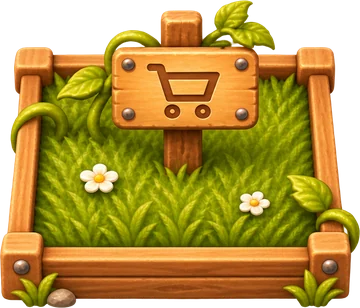
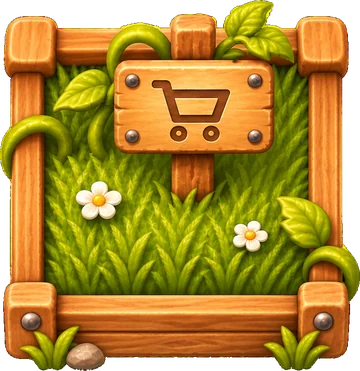
Nouveau fond de jardin, bacs vus de dessus, papillon et escargot (0.10.2)
Les petites icônes (goutte, pièce) reviennent au dessin simple.

Claude-Session: https://claude.ai/code/session_018D5HKJWKwN88xpAGuhHMQJ

diff --git a/css/style.css b/css/style.css
@@ -89,7 +89,7 @@ svg { display: block; }
 .brand svg { width: 26px; height: 26px; }
 @media (max-width: 460px) { .brand span { display: none; } }
 .pill { display: inline-flex; align-items: center; gap: 6px; background: var(--panel); border: 1px solid var(--line); border-radius: 999px; padding: 4px 12px 4px 6px; font-weight: 800; font-variant-numeric: tabular-nums; }
-.coin { display: inline-block; width: 1.25em; height: 1.25em; background: url("../assets/img/ui-coin.webp") center / contain no-repeat; vertical-align: -0.15em; flex: none; }
+.coin { display: inline-block; width: 1.05em; height: 1.05em; border-radius: 50%; background: radial-gradient(circle at 35% 35%, #ffe58a, #f4c03e 55%, #d99a1e); box-shadow: inset 0 0 0 1.5px #c98a16; vertical-align: -0.15em; flex: none; }
 .lvl { display: grid; gap: 3px; flex: 1; min-width: 0; }
 .lvl-top { display: flex; justify-content: space-between; gap: 6px; font-size: .75rem; color: var(--muted); font-weight: 700; white-space: nowrap; }
 .lvl-top b { color: var(--ink); font-family: var(--f-display); font-weight: 600; font-size: .9rem; }
@@ -129,23 +129,23 @@ main { display: grid; gap: 12px; padding-top: 4px; }
 .install p { margin: 0; flex: 1; font-size: .85rem; font-weight: 700; }
 
 /* Jardin : pelouse illustrée et bacs en bois */
-.garden { position: relative; border-radius: 22px; padding: 14px 10px 18px; overflow: hidden; border: 1px solid rgba(60,120,30,.25);
+.garden { position: relative; border-radius: 22px; padding: 14px 12px 18px; overflow: hidden; border: 1px solid rgba(60,120,30,.25);
   background: #8fcf52 url("../assets/img/bg-garden.webp") center / cover; }
-.plots { display: grid; grid-template-columns: repeat(3, minmax(0,1fr)); gap: 4px 8px; padding-top: 14%; }
+.plots { display: grid; grid-template-columns: repeat(3, minmax(0,1fr)); gap: 12px 10px; padding-top: 8%; }
 @media (min-width: 620px) { .plots { grid-template-columns: repeat(4, minmax(0,1fr)); } }
 /* Le bac occupe le bas de la case ; la plante dépasse au-dessus. */
-.plot { position: relative; aspect-ratio: 1 / .95; max-width: 100%; padding: 0; border: 0; background: url("../assets/img/plot-wet.webp") center bottom / 100% auto no-repeat; overflow: visible; }
+.plot { position: relative; aspect-ratio: 360 / 372; max-width: 100%; padding: 0; border: 0; background: url("../assets/img/plot-wet.webp") center / 100% 100% no-repeat; overflow: visible; }
 .plot.dry, .plot.empty { background-image: url("../assets/img/plot-dry.webp"); }
 .plot:active { transform: scale(.97); }
-.plot svg.art { position: absolute; left: 9%; width: 82%; height: 86%; bottom: 16%; top: auto; }
+.plot svg.art { position: absolute; left: 7%; width: 86%; height: 84%; bottom: 20%; top: auto; }
 .plot.empty { display: grid; place-items: center; color: #fff; font-weight: 800; font-size: .8rem; text-shadow: 0 1px 2px rgba(60,30,10,.7); }
-.plot.empty span { display: grid; justify-items: center; gap: 0; padding-top: 34%; }
+.plot.empty span { display: grid; justify-items: center; gap: 0; padding-bottom: 12%; }
 .plot.empty b { font-family: var(--f-display); font-size: 1.5rem; line-height: 1; }
 .plot.locked { background-image: url("../assets/img/plot-locked.webp"); display: grid; align-items: end; justify-items: center; }
-.plot.locked .price { margin-bottom: -6px; background: var(--panel); color: var(--ink); border-radius: 99px; padding: 2px 9px 2px 5px; font-size: .78rem; font-weight: 800; display: inline-flex; gap: 4px; align-items: center; box-shadow: 0 1px 3px rgba(0,0,0,.25); }
+.plot.locked .price { margin-bottom: 2%; background: var(--panel); color: var(--ink); border-radius: 99px; padding: 2px 9px 2px 5px; font-size: .78rem; font-weight: 800; display: inline-flex; gap: 4px; align-items: center; box-shadow: 0 1px 3px rgba(0,0,0,.25); }
 .plot .tag { position: absolute; top: 2px; right: 2px; z-index: 2; width: 24px; height: 24px; border-radius: 50%; display: grid; place-items: center; background: var(--panel); box-shadow: 0 1px 2px rgba(0,0,0,.2); }
 .plot .tag svg { width: 16px; height: 16px; }
-.plot .gbar { position: absolute; left: 16%; right: 16%; bottom: 3%; z-index: 2; height: 6px; border-radius: 99px; background: rgba(0,0,0,.25); overflow: hidden; }
+.plot .gbar { position: absolute; left: 20%; right: 20%; bottom: 7%; z-index: 2; height: 6px; border-radius: 99px; background: rgba(0,0,0,.25); overflow: hidden; }
 .plot .gbar i { display: block; height: 100%; background: #7fe04f; border-radius: 99px; }
 .plot.dry .gbar i { background: #ffd27a; }
 .plot .gt { position: absolute; left: 2px; top: 2px; z-index: 2; font-size: .7rem; font-weight: 800; color: #fff; background: rgba(0,0,0,.28); padding: 1px 6px; border-radius: 99px; font-variant-numeric: tabular-nums; }
@@ -367,7 +367,6 @@ textarea { width: 100%; min-height: 70px; border-radius: 12px; border: 1px solid
 .cauldron { width: 64px; height: 64px; object-fit: contain; }
 .cauldron.bubbling { animation: bob 1.6s ease-in-out infinite; }
 .banner-img { width: 120px; height: 120px; object-fit: contain; }
-.plot .tag img { width: 20px; height: 20px; object-fit: contain; }
 .pest { position: absolute; z-index: 1; object-fit: contain; pointer-events: none; }
 .pest.weed { width: 46%; left: 4%; bottom: 14%; }
 .pest.snail { width: 40%; right: 2%; bottom: 10%; }

diff --git a/index.html b/index.html
@@ -6,12 +6,12 @@
   <title>potager-idle</title>
   <meta name="description" content="Un petit jeu idle de potager : plante, arrose, récolte, cuisine et découvre des variétés hybrides.">
   <meta name="theme-color" content="#f2f9e6" id="theme-color">
-  <link rel="manifest" href="manifest.webmanifest?v=22">
+  <link rel="manifest" href="manifest.webmanifest?v=23">
   <link rel="icon" href="icons/icon-64.png" sizes="64x64" type="image/png">
   <link rel="icon" href="icons/icon-192.png" sizes="192x192" type="image/png">
   <link rel="preload" href="fonts/nunito-latin.woff2" as="font" type="font/woff2" crossorigin>
   <link rel="preload" href="fonts/fredoka-latin.woff2" as="font" type="font/woff2" crossorigin>
-  <link rel="stylesheet" href="css/style.css?v=22">
+  <link rel="stylesheet" href="css/style.css?v=23">
 </head>
 <body>
 <div id="app">
@@ -40,9 +40,9 @@
 <div id="fx"></div>
 <div id="toasts" aria-live="polite"></div>
 
-<script src="js/data.js?v=22"></script>
-<script src="assets/img/manifest.js?v=22"></script>
-<script src="js/art.js?v=22"></script>
-<script src="js/game.js?v=22"></script>
+<script src="js/data.js?v=23"></script>
+<script src="assets/img/manifest.js?v=23"></script>
+<script src="js/art.js?v=23"></script>
+<script src="js/game.js?v=23"></script>
 </body>
 </html>

diff --git a/js/art.js b/js/art.js
@@ -279,7 +279,7 @@ function avatar(v) {
   return `<svg viewBox="0 0 46 46" aria-hidden="true"><circle cx="23" cy="23" r="23" fill="${v.color}" opacity=".22"/><circle cx="12" cy="13" r="6" fill="${vol(v.ear)}"/><circle cx="34" cy="13" r="6" fill="${vol(v.ear)}"/><circle cx="23" cy="25" r="15" fill="${vol(v.color)}"/><ellipse cx="23" cy="31" rx="7" ry="5" fill="#fff" opacity=".55"/><circle cx="23" cy="29" r="2.2" fill="${INK}"/>${face(23, 23, 3.2)}</svg>`;
 }
 
-const DROP = `<img src="assets/img/ui-watering-can.webp" alt="">`;
+const DROP = `<svg viewBox="0 0 16 16"><path d="M8 1.5C6 5 3.5 7.5 3.5 10a4.5 4.5 0 0 0 9 0C12.5 7.5 10 5 8 1.5z" fill="${vol("#3f9bdc")}"/><ellipse cx="6.4" cy="9.6" rx="1" ry="1.6" fill="#fff" opacity=".6"/></svg>`;
 const STAR = `<svg viewBox="0 0 16 16"><path d="M8 1.5l1.9 4.1 4.5.5-3.4 3 1 4.4L8 11.2 4 13.5l1-4.4-3.4-3 4.5-.5z" fill="${vol("#f4c03e")}"/></svg>`;
 const WEED = `<g>${leaf(17, 61, -20, 15, 3, "#6e9a3a")}${leaf(21, 61, 8, 18, 3.2, "#5d8a30")}${leaf(25, 61, 30, 13, 2.8, "#7aa845")}` +
   `<ellipse cx="45" cy="56" rx="10" ry="4.5" fill="${vol("#d9bf94")}"/><circle cx="47" cy="50.5" r="6.5" fill="${vol("#b07a48")}"/>` +

diff --git a/js/game.js b/js/game.js
@@ -1,7 +1,7 @@
 "use strict";
 /* Numéro de version affiché dans les Paramètres.
    À chaque mise à jour : changer APP_VERSION, le ?v= dans index.html et VERSION dans sw.js. */
-const APP_VERSION = "0.10.1";
+const APP_VERSION = "0.10.2";
 /* ---------------- Helpers ---------------- */
 const $ = s => document.querySelector(s);
 const now = () => Date.now();

diff --git a/sw.js b/sw.js
@@ -1,6 +1,6 @@
 /* Service worker de potager-idle : rend le jeu jouable hors-ligne.
    À chaque mise à jour du jeu, augmente VERSION pour que les téléphones téléchargent la nouvelle version. */
-const VERSION = "potager-v22";
+const VERSION = "potager-v23";
 const FILES = [
   "./",
   "index.html",
